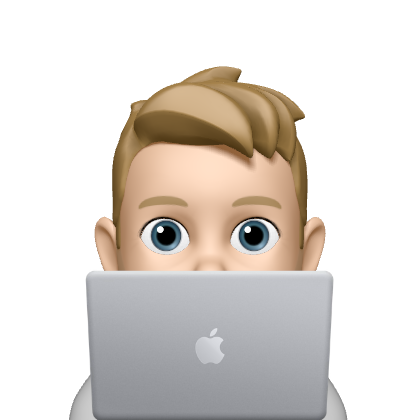
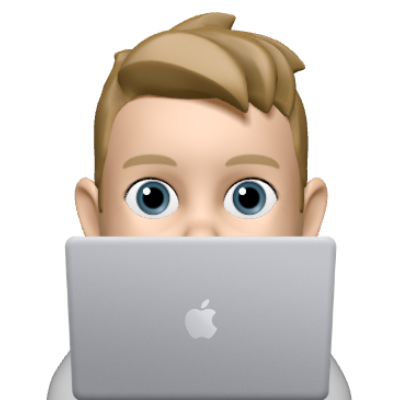
update

diff --git a/app/(site)/projects/page.jsx b/app/(site)/projects/page.jsx
@@ -2,6 +2,7 @@
 import React from "react";
 import ProjectList from "../components/ProjectList";
 import Link from "next/link";
+import Image from "next/image";
 
 export const revalidate = 0;
 
@@ -9,11 +10,22 @@ const Projects = () => {
   return (
     <div className="flex justify-center my-28 mx-5">
       <div className="w-[680px] flex flex-col">
-        <h2 className=" text-3xl sm:text-4xl mb-3 font-semibold light-text-primary dark-text-primary tracking-wide">
+      <div className="flex flex-col gap-3">
+      <figure>
+          <Image
+            src="/images/me_macbook.png"
+            width={70}
+            height={70}
+            alt="Mark Slorach"
+            className="hero-image"
+          />
+        </figure>
+        <h2 className=" text-3xl sm:text-4xl font-semibold light-text-primary dark-text-primary tracking-wide">
           Projects
         </h2>
         <p className="dark-text-secondary text-[16px] sm:text-[17px] tracking-wide leading-relaxed font-light ">Some of the recent projects I've worked on in my spare time and during my studies. Click on a project card to view more information about the project. If you have any questions please feel free to  <Link href={"/contact"}><span className="text-gradient font-semibold">get in touch</span></Link>.</p>
         <div className="mt-20">
+        </div>
         <ProjectList showAll />
         </div>
       </div>

diff --git a/app/globals.css b/app/globals.css
@@ -91,7 +91,6 @@ body {
 }
 
 /* FOOTER */
-
 .footer-text {
   @apply text-xs sm:text-sm text-white/30;
 }
